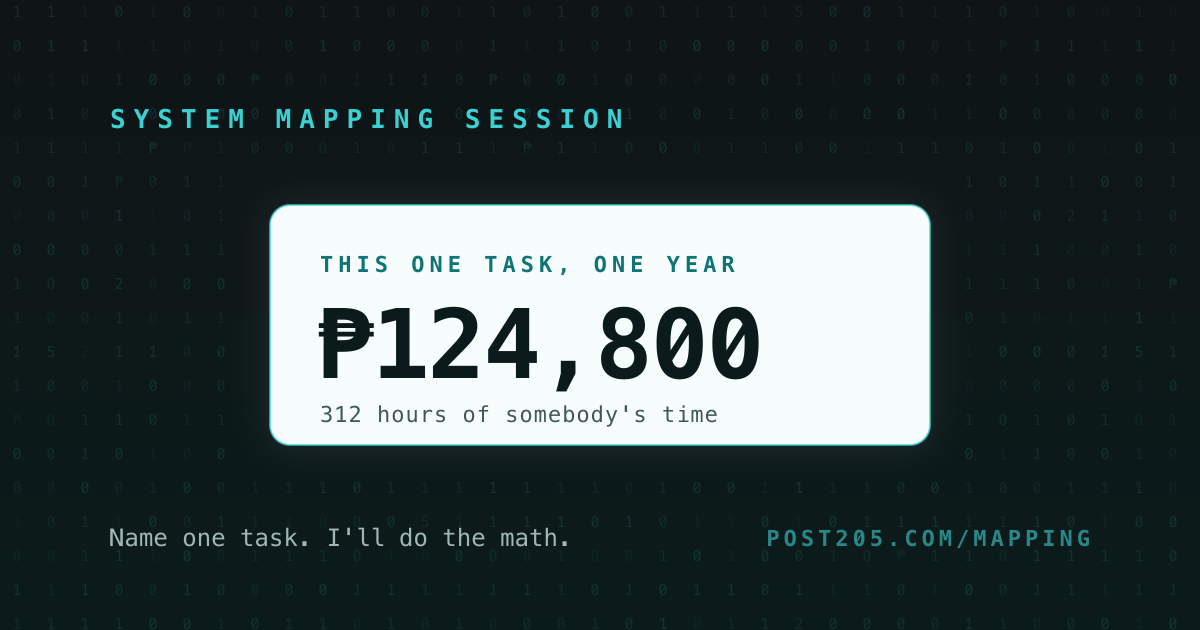
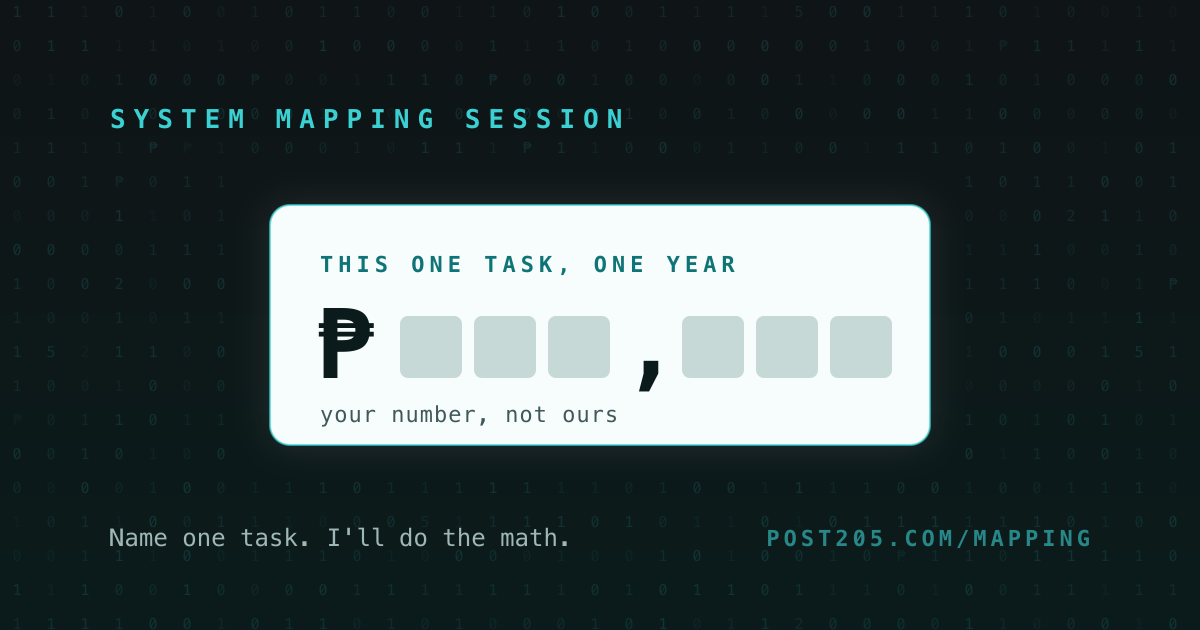
mapping: OG image v2 — blank receipt, no number, your number not ours

Changed region(s): [[0.2467, 0.4825, 0.7708, 0.6937], [0.555, 0.6333, 0.5858, 0.6937]]

diff --git a/mapping.html b/mapping.html
@@ -7,18 +7,18 @@
   <meta name="description" content="A paid working session that puts a peso figure on every manual task in your business, and gives you the order to fix them in. ₱28,500, credited in full against a build.">
   <meta property="og:title" content="System Mapping Session · POST205">
   <meta property="og:description" content="Put a peso figure on every manual task in your business. One session, one map, and the order to fix them in. Credited in full against a build.">
-  <meta property="og:image" content="https://post205.com/images/og-mapping.png?v=1">
+  <meta property="og:image" content="https://post205.com/images/og-mapping.png?v=2">
   <meta property="og:image:width" content="1200">
   <meta property="og:image:height" content="630">
-  <meta property="og:image:alt" content="A receipt on a dark field of digits: this one task, one year — ₱124,800, 312 hours of somebody's time.">
+  <meta property="og:image:alt" content="A blank receipt on a dark field of digits: this one task, one year, peso sign, six empty digit boxes. Your number, not ours.">
   <meta property="og:url" content="https://post205.com/mapping">
   <meta property="og:type" content="website">
   <meta property="og:site_name" content="POST205">
   <meta name="twitter:card" content="summary_large_image">
   <meta name="twitter:title" content="System Mapping Session · POST205">
   <meta name="twitter:description" content="Put a peso figure on every manual task in your business. One session, one map, and the order to fix them in.">
-  <meta name="twitter:image" content="https://post205.com/images/og-mapping.png?v=1">
-  <meta name="twitter:image:alt" content="A receipt on a dark field of digits: this one task, one year — ₱124,800, 312 hours of somebody's time.">
+  <meta name="twitter:image" content="https://post205.com/images/og-mapping.png?v=2">
+  <meta name="twitter:image:alt" content="A blank receipt on a dark field of digits: this one task, one year, peso sign, six empty digit boxes. Your number, not ours.">
   <link rel="canonical" href="https://post205.com/mapping">
   <link rel="icon" type="image/svg+xml" href="/images/favicon.svg">
   <link rel="icon" type="image/png" sizes="32x32" href="/images/favicon-32.png">